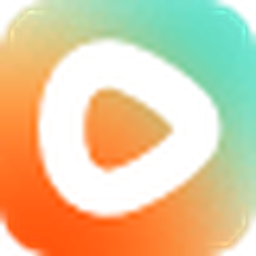
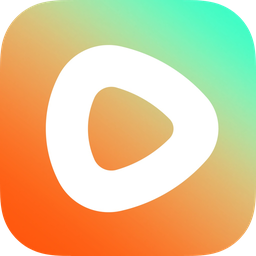
fix(nas): 修复「打开」按钮缺失 + 套件图标改用红果官方图标
1) 「打开」按钮：ui/ 之前只放在 SPK 外层，没进 package.tgz →
   /var/packages/<pkg>/target/ui 不存在，DSM 不生成 webman 3rdparty 链接，
   套件中心只显示「已安装」。
   改为在 target 里同时输出 ui/config + ui/images（与 DeepSeekHarness-NAS 包一致）。
   实测：升级后生成 /usr/syno/synoman/webman/3rdparty/hongguoweb -> target/ui ✓

2) 图标：新增 nas/assets/source/hongguo-short-drama-1024.png（官方 1024x1024 图标），
   make-icons.py 优先用它派生 PACKAGE_ICON / ui/images（40x40 项目 logo 仅作兜底）。

3) 已在 NAS 实测升级 v1.0.0-5：版本/端口(8871)/ui/config/图标/shim 全部正确。

diff --git a/nas/make-icons.py b/nas/make-icons.py
@@ -13,7 +13,9 @@ import os
 from PIL import Image, ImageFilter
 
 HERE = os.path.dirname(os.path.abspath(__file__))
-SRC = os.path.join(HERE, "..", "web", "assets", "logo.png")
+# 优先用 1024x1024 的官方图标（nas/assets/source/），没有再退回项目自带 40x40 logo
+SRC_HQ = os.path.join(HERE, "assets", "source", "hongguo-short-drama-1024.png")
+SRC = SRC_HQ if os.path.exists(SRC_HQ) else os.path.join(HERE, "..", "web", "assets", "logo.png")
 ASSETS = os.path.join(HERE, "assets")
 UI_IMG = os.path.join(ASSETS, "ui", "images")
 SIZES = [16, 24, 32, 48, 64, 72, 128, 256]
@@ -21,15 +23,18 @@ MASTER = 1024
 
 
 def load_master() -> Image.Image:
-    """读项目 logo → 居中补成正方形 → 放大到 1024 → 轻锐化补偿放大模糊。"""
+    """读图标源 → 居中补正方形 → 必要时放大到 1024；小图放大的做轻度锐化。"""
     src = Image.open(SRC).convert("RGBA")
     w, h = src.size
     s = max(w, h)
     square = Image.new("RGBA", (s, s), (0, 0, 0, 0))
     square.paste(src, ((s - w) // 2, (s - h) // 2))
-    master = square.resize((MASTER, MASTER), Image.LANCZOS)
-    # 40px → 1024px 放大必然变软，轻度 USM 让边缘/三角更实
-    master = master.filter(ImageFilter.UnsharpMask(radius=2.5, percent=90, threshold=2))
+    if s >= MASTER:
+        master = square.resize((MASTER, MASTER), Image.LANCZOS)
+    else:
+        master = square.resize((MASTER, MASTER), Image.LANCZOS)
+        # 小图放大必然变软，轻度 USM 让边缘/三角更实
+        master = master.filter(ImageFilter.UnsharpMask(radius=2.5, percent=90, threshold=2))
     return master
 
 
